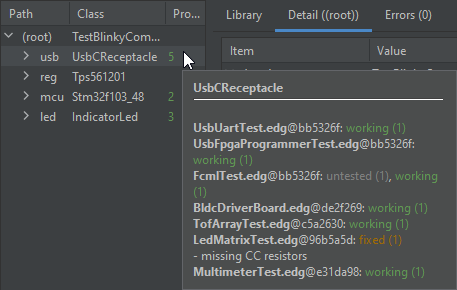
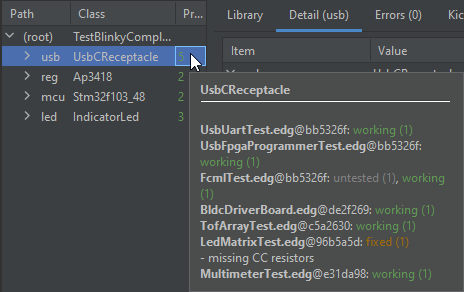
wip docs

diff --git a/getting-started.md b/getting-started.md
@@ -323,7 +323,13 @@ Specific design points can be inspected by double-clicking the entry to bring it
 
 Instead of just choosing any regulator that works, let's compare the options and look at board area and current draw (power consumption) by adding an objective function.
 For board area, **right click on the design root, and select Add objective contained footprint area.**
+
+![Add objective footprint area](docs/ide_dse/addobjective_fpa_root.png)
+
 For current draw, **select the regulator, then open the Detail panel, expand the input power (pwr_in) port, right click current_draw, and select Add objective.**
+
+![Add objective regulator current draw](docs/ide_dse/addobjective_reg_idraw.png)
+
 If done right, the Objective Functions listed in the Config tree should show both FootprintArea((root)) and Parameter(reg.pwr_in.current_draw).
 **Re-run the design space search** to update the results with the new objective functions.
 
@@ -341,7 +347,11 @@ The top ideal point is the IdealLinearRegulator (which drops the voltage by "bur
 The non-ideal points show a trade-off: the lowest power (most efficient) points are buck converters, but the smallest are linear regulators.
 This makes sense: buck converters generally require many supporting components (inductor and significant capacitors), while linear regulators often are just a chip and small capacitors.
 
-Let's arbitrarily choose to prioritize efficiency and use the `Tps561201`: **right-click the entry and select Insert Refinements**.
+Let's arbitrarily choose to prioritize efficiency but select the smaller of those, and use the `Ap3418`.
+**Right-click the entry and select Insert Refinements**.
+
+![Insert refinement for VoltageRegulator](docs/ide_dse/insertrefinement_ap3418.png)
+
 This inserts a refinements block into the design:
 
 ```python
@@ -352,12 +362,12 @@ class BlinkyExample(SimpleBoardTop):
   def refinements(self) -> Refinements:
     return super().refinements() + Refinements(
     instance_refinements=[
-      (['reg'], Tps561201),
+      (['reg'], Ap3418),
     ])
 ```
 
 _Refinements_ allow the top-level design to specify additional information throughout the design.
-Here we specify that the abstract `BuckConverter` is specifically a `Tps561201`, but the capability is more general, for example allowing a global refinement of `Resistor` to `AxialResistor`, or even selecting the minimum SMD package to be 0603 or 0805.
+Here we specify that the abstract `BuckConverter` is specifically a `Ap3418`, but the capability is more general, for example allowing a global refinement of `Resistor` to `AxialResistor`, or even selecting the minimum SMD package to be 0603 or 0805.
 
 > `BoardTop` defines default refinements for some common types, such has choosing surface-mount components for `Resistor` and `Capacitor`.
 > You can override these with a refinement in your HDL, for example choosing `AxialResistor`.
@@ -394,7 +404,7 @@ Recompiling in the IDE yields this block diagram and no errors:
 >     def refinements(self) -> Refinements:
 >       return super().refinements() + Refinements(
 >       instance_refinements=[
->         (['reg'], Tps561201),
+>         (['reg'], Ap3418),
 >       ])
 >   ```
 > </details>
@@ -405,29 +415,29 @@ A major benefit of this HDL-based design flow is the design automation that is e
 The library writer has done the hard work of figuring out how to size the capacitors and inductors, and wrapped it into this neat `VoltageRegulator` block.
 
 You may want to inspect the results.
-In the IDE, you can hover over the output line and see that it is at 3.3v ±4.47%.
+In the IDE, you can hover over the output line and see that it is at 3.32v ±6.87%.
 Why?
-You can dig into the Tps561201 by double-clicking on it:  
+You can dig into the converter subcircuit by double-clicking on it:  
 ![TPS561201 subcircuit](docs/ide/ide_buck_internal.png)
 
-The implementation uses a feedback voltage divider, and if you mouseover this it will show the generated ratio of 0.23.
+The implementation uses a feedback voltage divider, and if you mouseover this it will show the generated ratio of 0.18.
 The converter's output voltage reflects the actual expected output voltage, accounting for resistor tolerance and the chip's internal reference tolerance.  
-![Buck converter input capacitor](docs/ide/ide_buck_fb.png)
+![Buck converter input capacitor](docs/ide_dse/bdv_ap3418_fb.png)
 
 Similarly, mousing over the other components like the resistors and capacitors shows their details.
 
 To zoom out, double-click on the topmost block.
 
-If you're curious about how this is implemented, you can also navigate to the definition of the `Tps561201` block.
+If you're curious about how this is implemented, you can also navigate to the definition of the `Ap3418` block.
 Ultimately, its definition is structurally similar to how you're building your board: create Blocks, optionally giving them parameters (or expressions to calculate parameters), and connect their ports together.
 It's like this all the way down, the 'magic' of being able to instantiate these complex subcircuits with a single line of code comes from the expertise baked into these library elements. 
 
 ```python
-self.ic = imp.Block(Tps561201_Device())
+self.ic = imp.Block(Ap3418_Device())
 
 self.fb = imp.Block(FeedbackVoltageDivider(
-  output_voltage=(0.749, 0.787) * Volt,
-  impedance=(1, 10) * kOhm,
+  output_voltage=(0.588, 0.612) * Volt,
+  impedance=(10, 100) * kOhm,
   assumed_input_voltage=self.output_voltage
 ))
 self.connect(self.fb.input, self.pwr_out)
@@ -469,13 +479,14 @@ class BlinkyExample(SimpleBoardTop):
 > This interface generalizes beyond microcontrollers to anything that can control IOs, such as FPGAs.
 
 To search the design space, first recompile the design to update the design tree with the new `IoController`.
+You can recompile a single design from the DSE runer by **deleting the existing search configurations, then re-run the design.**
+
+![Search config deletion](docs/ide_dse/dsepanel_config_delete1.png)
+
 It should produce an error, like `VoltageRegulator`, `IoController` is abstract but provides a default ideal model.
 With this done, **right-click the new `mcu` and select Search all subclass refinements**.
-Note that this adds a new dimension to the search space: unless you cleared the regulator search configuration, it will search over all combinations of voltage regulators AND microcontrollers.
-Since this becomes very time-intensive, **right-click the regulator search config and delete it**.
+Note that this adds a new dimension to the search space: if you didn't clear the voltage regulator search configuration, it will search over all combinations of voltage regulators AND microcontrollers which can become very time-intensive.
 Then, **re-run the search**.
-
-![Search config deletion](docs/ide_dse/dsepanel_config_delete.png)
 
 Under the current design, all of them will work (though with different power consumption and area trade-offs).
 So, if we wanted a microcontroller module with WiFi, we might pick one of the ESP32 options, **insert a refinement for the Esp32_Wroom_32**.
